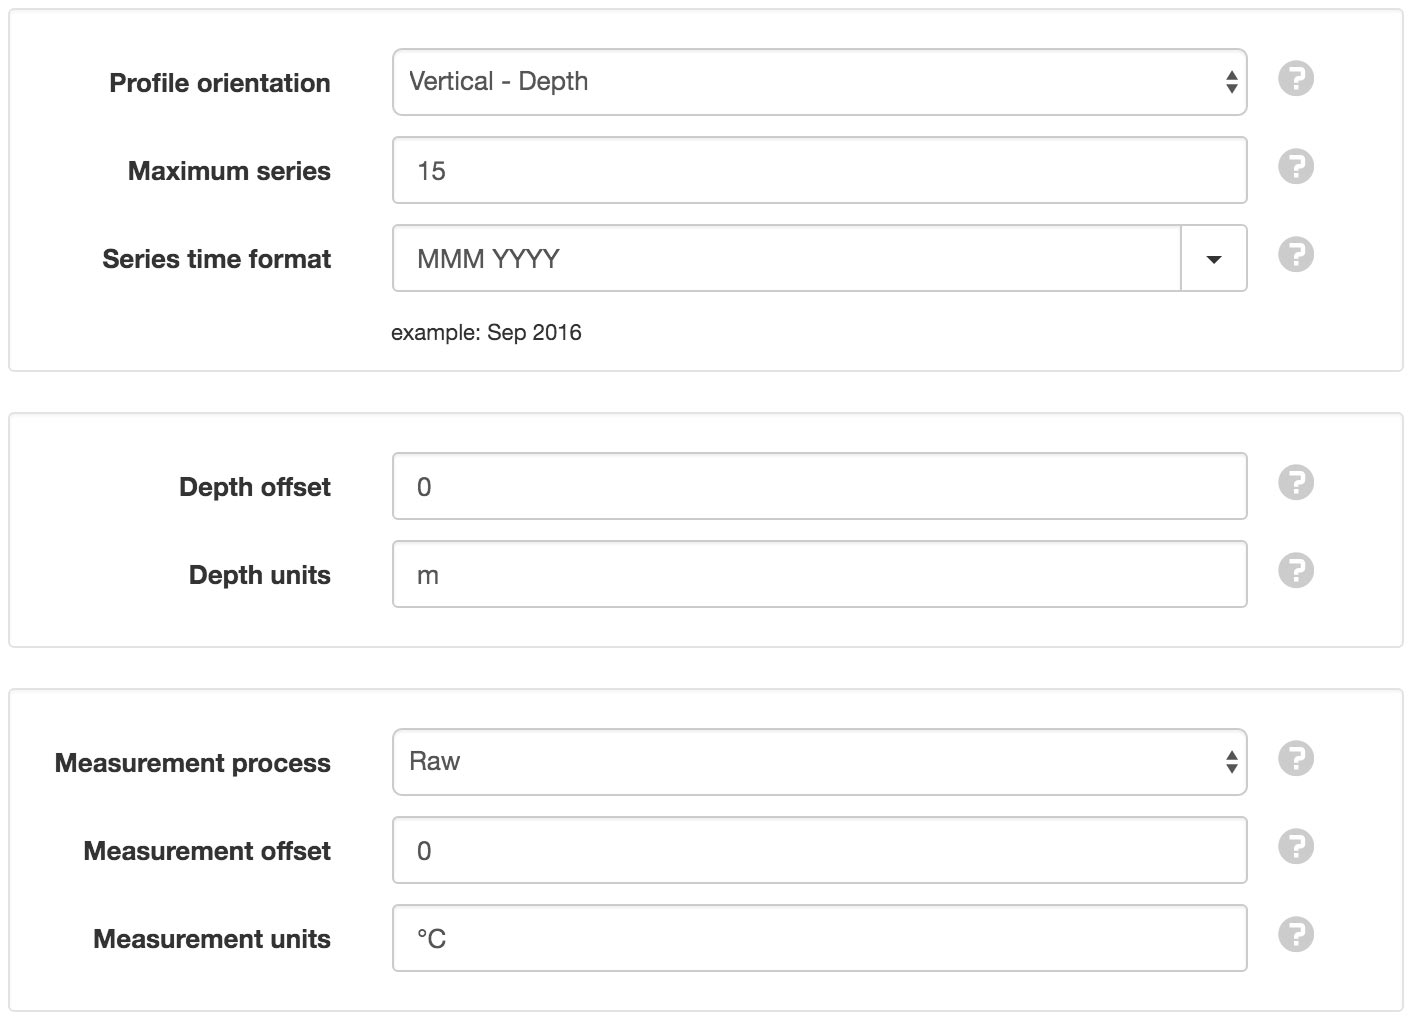
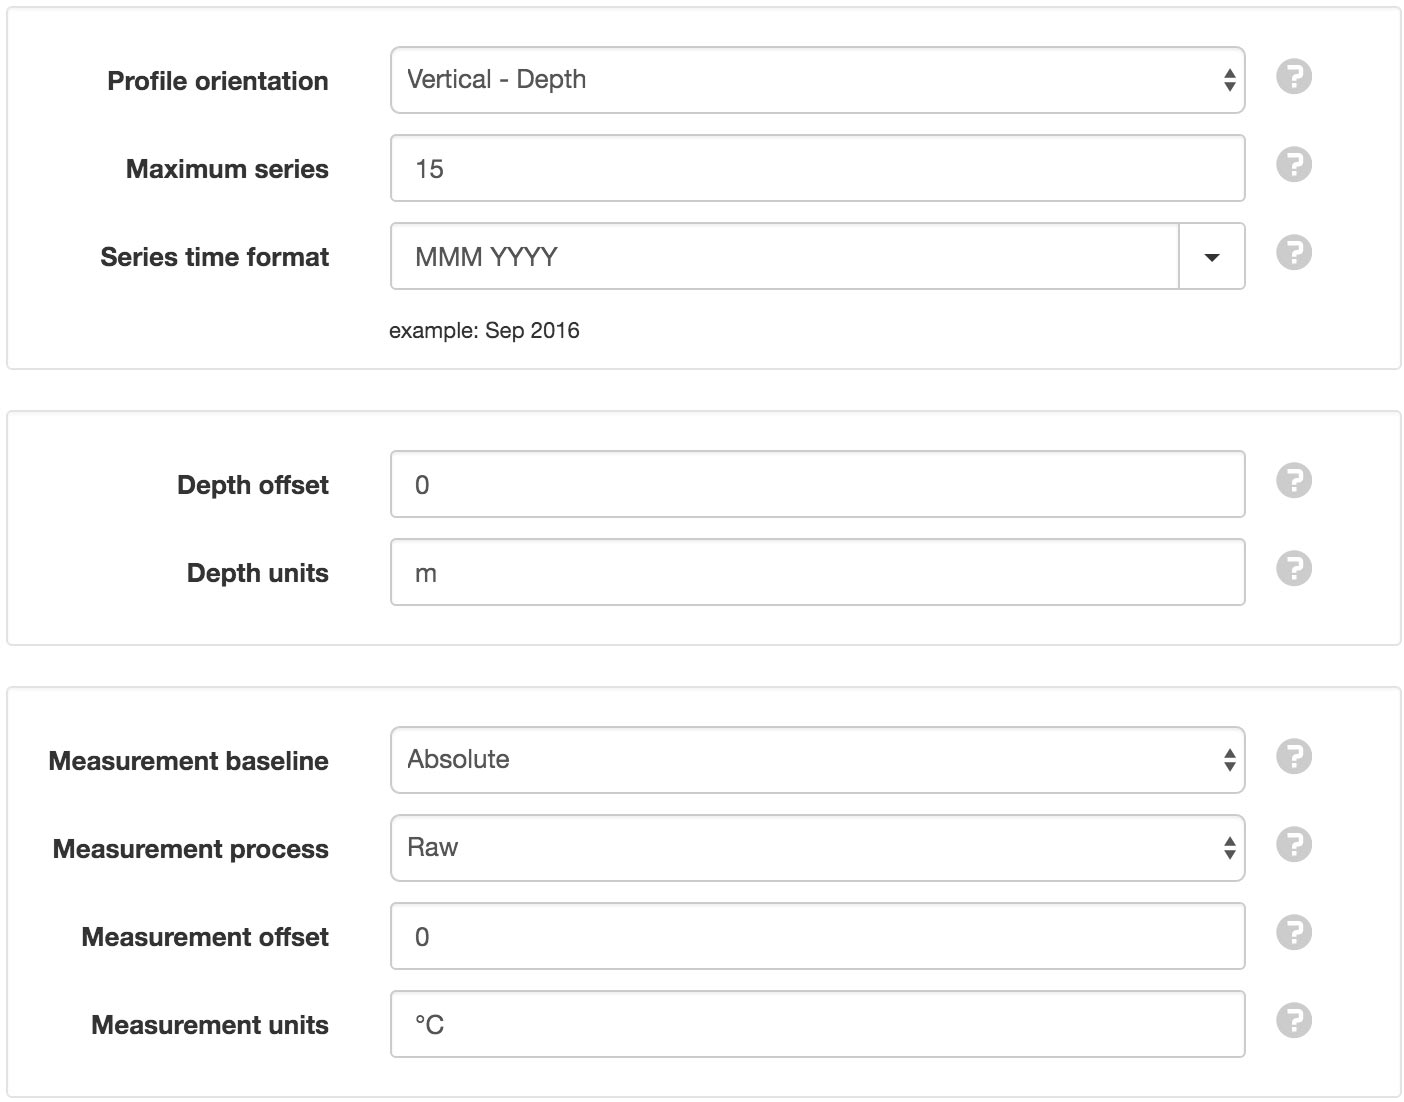
add measurement baseline to displacement chart

diff --git a/source/topics/nodes/chart/displacement/index.rst b/source/topics/nodes/chart/displacement/index.rst
@@ -94,6 +94,10 @@ Depth/Distance offset
 Depth/Distance units
     Suffix to display with the depth/distance values.
 
+Measurement baseline
+    *Absolute:* Measurements are not modified.
+    *Relative:* Measurements from initial series are subtracted from all subsequent series.
+
 Measurement process
     Processing to apply to all measurement values. *Raw* will not apply any processing. *Sum from Start* and *Sum from End* will totalise measurement values.
 
